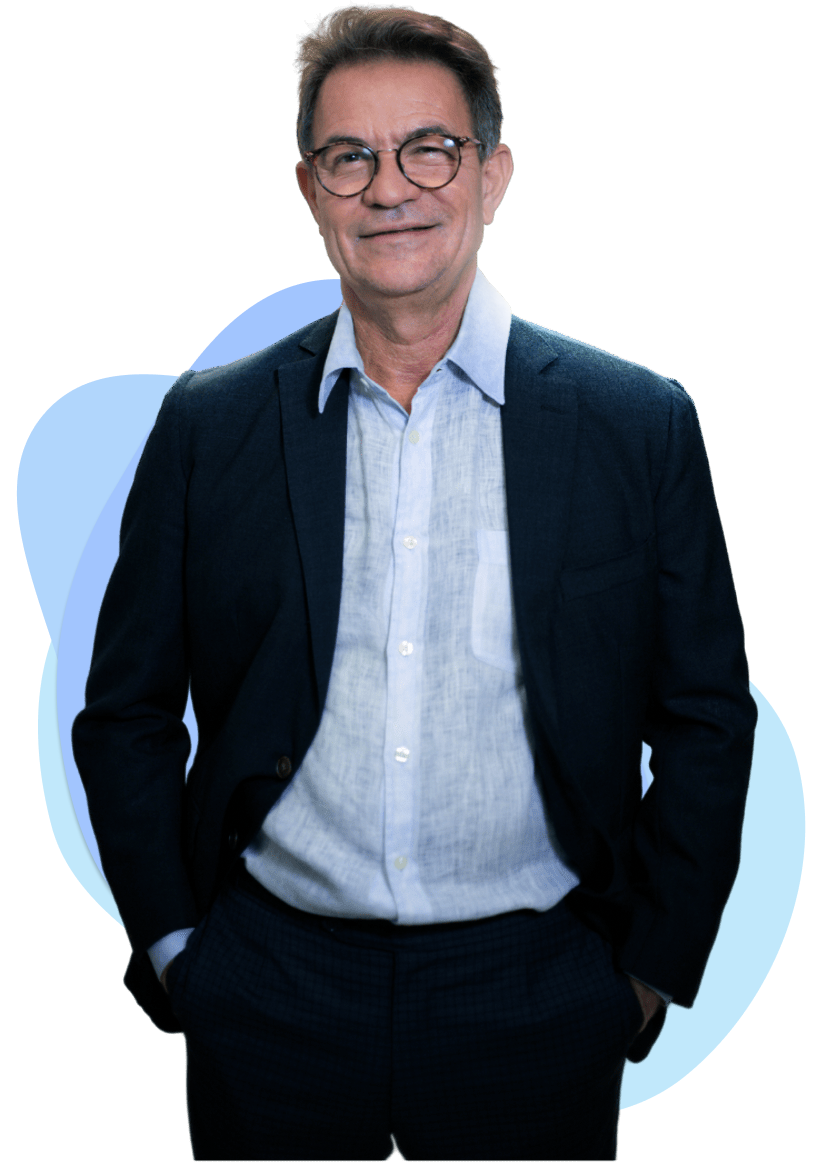
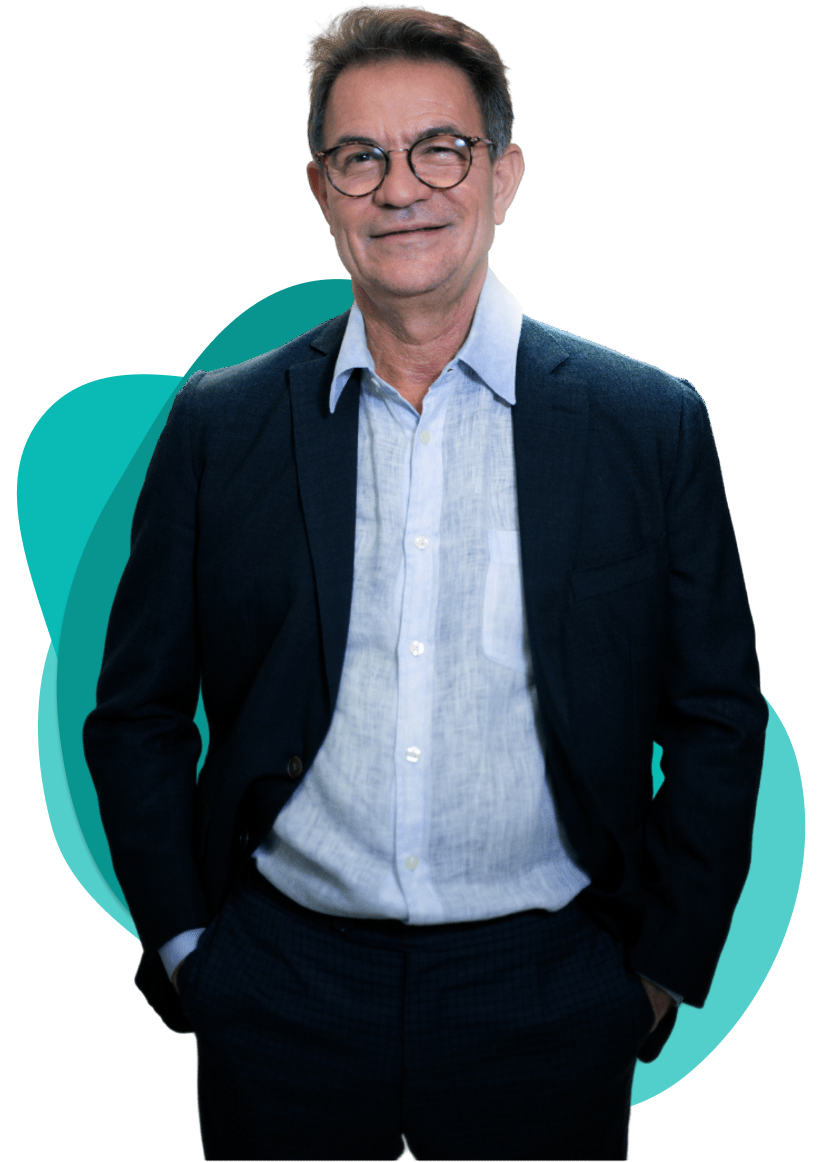
update

diff --git a/css/style.css b/css/style.css
@@ -4,12 +4,13 @@
 /*HEADER HOME =================== */
 :root {
   --poppins: 'Poppins', sans-serif;
+  --gradient-verde-verde: linear-gradient(90deg, #0ABBB5 0%, #04E7DF 100%);
+  --gradient-verde-azul: linear-gradient(90deg, #0ABDB7 0%, #87D8FF 100%);
 }
 
 #home {
-  background-image: url(../assets/medicos\ operando\ sergio\ aidar\ fundo\ \(1\).jpg);
+  background-image: url(../assets/bg\ sergioaidar\ azul\ verde\ gradiente.jpg);
   background-size: cover;
-
   height: 110vh;
 }
 
@@ -25,6 +26,7 @@
 
 #home .content .text {
   margin-top: 10rem;
+  z-index: 2;
 }
 
 #home .content .text h1 {
@@ -50,7 +52,7 @@
 #home .content .text a button {
   font-family: var(--poppins);
 
-  background: linear-gradient(90deg, #7EC0FD 0%, #92DCFF 100%);
+  background: var(--gradient-verde-verde);
   border-radius: 1rem;
   padding: 1rem 2rem;
   border: none;
@@ -108,10 +110,10 @@
 }
 
 #services .cards .card {
-  background: linear-gradient(90deg, #7EC0FD 0%, #92DCFF 100%);
+  background: var(--gradient-verde-verde);
   border-radius: 1rem;
   padding: 2rem;
-  border: 1px solid #7EC0FD;
+  border: 1px solid #00a597;
 
   box-shadow:  7px 7px 10px #e0e0e0,
              -7px -7px 10px #ffffff;
@@ -166,7 +168,7 @@
 }
 
 #cirurgias {
-  background: linear-gradient(90deg, #7EC0FD 0%, #92DCFF 100%);
+  background: var(--gradient-verde-verde);
 }
 
 #cirurgias .cards {
@@ -185,13 +187,13 @@
   padding: 2rem;
 
 
-  background: linear-gradient(90deg, #e0e0e0 0%, #ffffff 100%);
+  background: var(--gradient-verde-verde);
   width: 100%;
   border-radius: 1rem;
   border-left: 2px solid var(--text-blue-black);
 
-  box-shadow:  7px 7px 14px #74b1e9,
-             -7px -7px 14px #88cfff;
+  box-shadow:  20px 20px 60px #099f9a,
+             -20px -20px 60px #0cd7d0;
 
   position: relative;
 }
@@ -234,7 +236,7 @@
   font-weight: 600;
   border: none;
   border-radius: 1rem;
-  background: linear-gradient(90deg, #7EC0FD 0%, #92DCFF 100%);
+  background: var(--gradient-verde-verde);
   padding: 1rem;
 
   transition: all 200ms ease-in-out;
@@ -250,17 +252,19 @@
 }
 /*MATERIAL=================== */
 #material {
-  background: linear-gradient(90deg, #7EC0FD 0%, #92DCFF 100%);
+  background: var(--gradient-verde-verde);
 }
 
 #material .content {
   margin-top: 5rem;
-  background-color: var(--blue-900);
+  background-image: url(../assets/background\ ebook.jpg);
+  background-size: cover;
   border-radius: 1rem;
   padding-top: 10rem;
   padding-bottom: 2rem;
   padding-inline: 2rem;
   position: relative;
+  border: 2px solid #fff;
 
   box-shadow:  6px 6px 12px #6ba3d7,
              -6px -6px 12px #91ddff;
@@ -319,7 +323,7 @@
   border: none;
   padding: 1rem 2rem;
   border-radius: 1rem;
-  background: linear-gradient(90deg, #e0e0e0 0%, #ffffff 100%);
+  background: var(--gradient-verde-verde);
   font-weight: 700;
   font-family: var(--poppins);
   color: var(--text-blue-black);
@@ -474,7 +478,7 @@
 
   section#cirurgiasDesktop {
     display: inherit;
-    background: linear-gradient(90deg, #7EC0FD 0%, #92DCFF 100%);
+    background: var(--gradient-verde-verde);
   }
   
   section#cirurgiasDesktop header h2 {
@@ -492,7 +496,7 @@
     align-items: center;
     justify-content: space-evenly;
     gap: 3rem;
-    background: linear-gradient(90deg, #ebebeb 0%, #f3f3f3 100%);
+    background: var(--gradient-verde-verde);
     padding: 3rem;
     border-radius: 1rem;
     min-height: 30rem;
@@ -517,7 +521,7 @@
   section#cirurgiasDesktop .card a button {
     font-family: var(--poppins);
 
-    background: linear-gradient(90deg, #7EC0FD 0%, #92DCFF 100%);
+    background: var(--gradient-verde-verde);
     border-radius: 1rem;
     padding: 1rem 2rem;
     border: none;
@@ -559,17 +563,12 @@
     width: 25%;
   }
 
-  section#material .wrapper .content .text {
-   align-items: start;
-  }
-
   section#material .wrapper .content .text h2 {
     font-size: 4rem;
   }
 
   section#material .wrapper .content .text p {
     font-size: 1.6rem;
-    text-align: left;
   }
 }
 

diff --git a/css/global.css b/css/global.css
@@ -10,16 +10,17 @@
     font-size: 62.5%;
     --nav-height: 7.2rem;
 
-    --blue-900: #71ACE3;
-    --blue-800: #7EC0FD;
-    --blue-700: #8AC6FD;
-    --blue-600: #97CCFD;
-    --blue-500: #A4D2FD;
-    --blue-400: #B1D9FD;
-    --blue-300: #BEDFFE;
+    --blue-900: #089590;
+    --blue-800: #09A8A2;
+    --blue-700: #0ABBB5;
+    --blue-600: #22C1BC;
+    --blue-500: #3BC8C3;
+    --blue-400: #53CFCB;
+    --blue-300: #6CD6D2;
+    --blue-200: #84DDDA;
 
-    --text-blue-white: #E2F1FF;
-    --text-blue-black: #1C3D5C;
+    --text-blue-white: #E5FFFE;
+    --text-blue-black: #005956;
 
     --white: #f1f1f1;
 }  

diff --git a/css/navigation.css b/css/navigation.css
@@ -158,7 +158,6 @@ nav {
   }
 
   .menu .button:hover {
-    box-shadow: 1px 1px 20px #004d63;
   }
   
   .social-links {
@@ -242,11 +241,10 @@ nav {
         border-radius: 1rem;
         transition: all 300ms ease-in-out;
         font-weight: 700;
-        background: linear-gradient(90deg, #7EC0FD 0%, #92DCFF 100%);
+        background: var(--gradient-verde-verde);
       }
   
       nav#navigation .menu a button:hover {
-        box-shadow:  2px 6px 30px #009ac033;
       }
 
       nav#navigation.scroll .menu a button {

diff --git a/index.html b/index.html
@@ -124,7 +124,7 @@
                 </div>                
 
                 <div class="image">
-                    <img class="sergio" src="./assets/sergioaidar.png" alt="Foto de Dr. Sergio Aidar">
+                    <img class="sergio" src="./assets/sergioaidar box.png" alt="Foto de Dr. Sergio Aidar">
                 </div>
            </div>
         </div>
